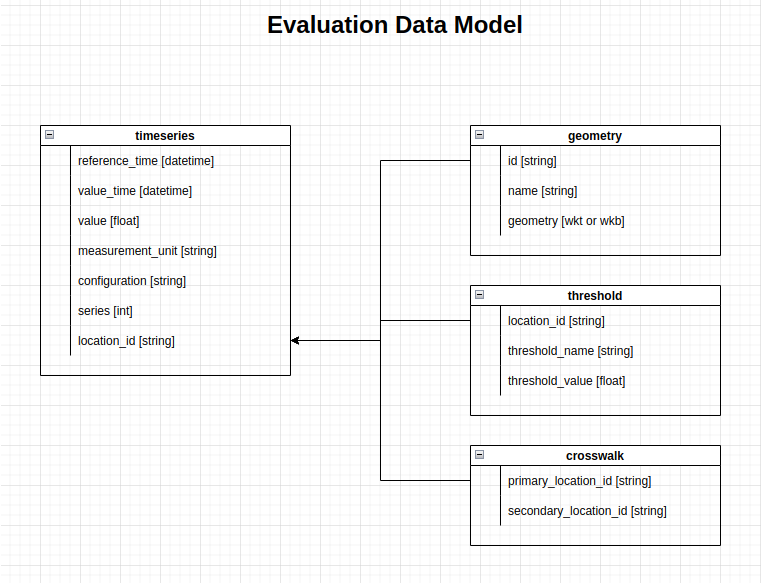
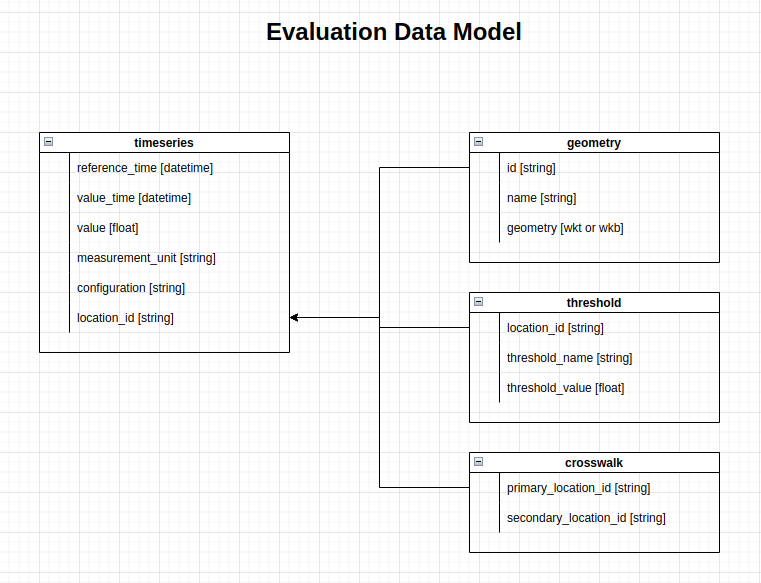
update docs - remove series

diff --git a/docs/data_model/data_models.md b/docs/data_model/data_models.md
@@ -12,7 +12,6 @@ The `timeseries` data model (mostly taken from HydroTools) describes the schema 
 - `variable_name`: [string] This describes the type of value, for example `streamflow`.  This are not verified by the system but should be consistent.
 - `measurement_unit`: [string] This describes the units of the - `value`, for example `m^3/s`. This are not verified by the system but should be consistent.
 - `configuration`: [string] This is a reference string describing the model simulation.  In the context of the v2.2 NWM, this would refer to the a model run such as `medium_range` or `analysis_assim`.  In the NextGen system or a test-bed simulation, this would be a relevant identifier.
-- `series`: [int]
 - `location_id`: [string] This is the `location_id` associated assigned to the timeseries by the creating entity.  For example, if this timeseries was USGS gage data, then the - `location_id` would be the USGS site code, if it was output from V2.2 of the National Water Model, then the NWM feature ID would be used.  For clarity, a "source string" can be prepend to the ID to make the source of the ID obvious.  For example `usgs-0123456789` or `huc10-1834526098`.  "source string" should be lowercase and separated from the ID with a hyphen ("-").
 
 ## Crosswalk
